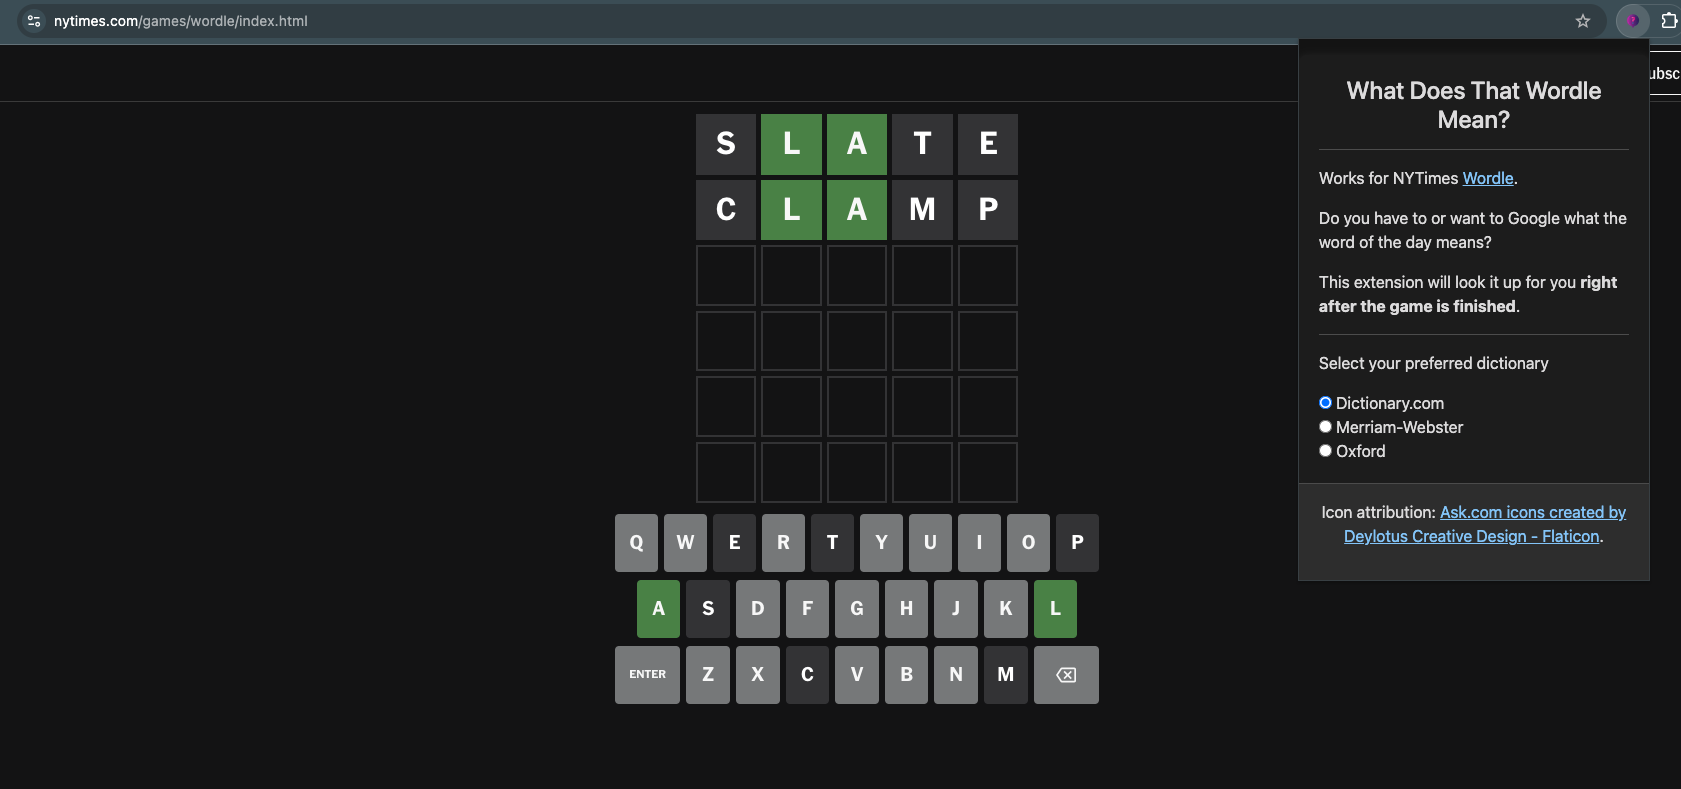
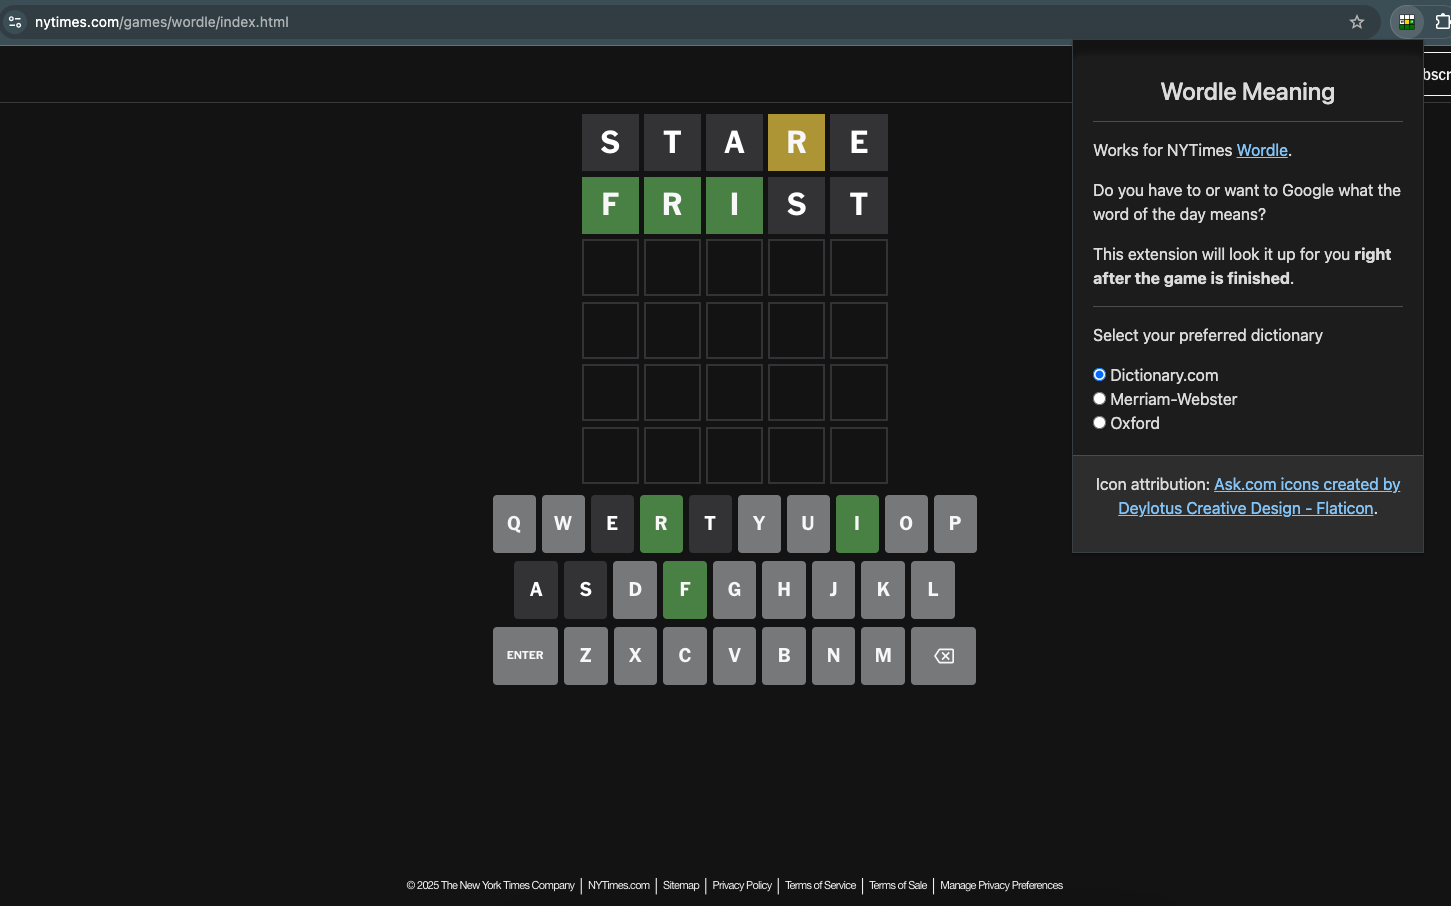
fix: not loading when failed game + user not logged (#5)

diff --git a/content.js b/content.js
@@ -1,4 +1,12 @@
-const CONFIG = { dictionaryUrl: "https://www.dictionary.com/browse/", };
+/**
+ * Configuration constants for the Wordle extension
+ */
+const CONFIG = {
+  dictionaryUrl: "https://www.dictionary.com/browse/",
+  wordLength: 5,
+  pollInterval: 1000,
+  dictionaryDelay: 1500,
+};
 
 const DICT = {
   dictionary: (word) => `https://www.dictionary.com/browse/${word}`,
@@ -23,90 +31,189 @@ const STATE = {
 const DONT_REVEAL = [
   "Not in word list",
   "Not enough letters",
-]
+];
 
-const dontCheck = [STATE.tbd, STATE.empty, STATE.present, STATE.absent];
+const invalidStates = [STATE.tbd, STATE.empty, STATE.present, STATE.absent];
 
 let attemptedWord = "";
+let pollIntervalId = null;
 
+/**
+ * Polls the Wordle game to detect when it's complete and extract the word
+ * Handles both win and loss scenarios
+ */
 function pollWordle() {
-  const currentWord = getCurrentResolvedWord();
-  if (currentWord?.length === 5) {
-    openDictionary(currentWord);
-    return;
-  }
-  const revealed = isRevealed();
-  if (revealed) {
-    openDictionary(revealed);
-    return;
-  }
+  try {
+    const currentWord = getCurrentResolvedWord();
+    if (currentWord?.length === CONFIG.wordLength) {
+      openDictionary(currentWord);
+      stopPolling();
+      return;
+    }
+    const revealed = isRevealed();
+    if (revealed) {
+      openDictionary(revealed);
+      stopPolling();
+      return;
+    }
 
-  if (isWordleComplete()) {
-    return;
+    if (isWordleComplete()) {
+      stopPolling();
+      return;
+    }
+  } catch (error) {
+    console.error('Error in pollWordle:', error);
+    stopPolling();
   }
-
-  requestAnimationFrame(pollWordle);
 }
 
+/**
+ * Starts polling the Wordle game for completion
+ * Clears any existing polling interval before starting
+ */
+function startPolling() {
+  if (pollIntervalId) {
+    clearInterval(pollIntervalId);
+  }
+  pollIntervalId = setInterval(pollWordle, CONFIG.pollInterval);
+}
+
+/**
+ * Stops the polling interval and cleans up resources
+ */
+function stopPolling() {
+  if (pollIntervalId) {
+    clearInterval(pollIntervalId);
+    pollIntervalId = null;
+  }
+}
+
+/**
+ * Extracts the current resolved word from the game tiles
+ * @returns {string} The resolved word if found, empty string otherwise
+ */
 function getCurrentResolvedWord() {
-  const letters = document.querySelectorAll(`*[class^="${DOM.resolvedClass}"]`);
-  if (!letters || letters.length === 0) return "";
+  try {
+    const letters = document.querySelectorAll(`*[class^="${DOM.resolvedClass}"]`);
+    if (!letters || letters.length === 0) return "";
 
-  let word = "";
-  for (let i = 0; i < letters.length; i++) {
-    const letterEl = letters[i];
-    const letterState = letters[i].getAttribute("data-state");
+    let word = "";
+    for (let i = 0; i < letters.length; i++) {
+      const letterEl = letters[i];
+      const letterState = letters[i].getAttribute("data-state");
 
-    // not correct clears the word 
-    if (dontCheck.includes(letterState)) {
-      word = "";
-      continue;
-    }
+      // not correct clears the word 
+      if (invalidStates.includes(letterState)) {
+        word = "";
+        continue;
+      }
 
-    word += letterEl.innerText;
-    // if 5 correct in a row, it is solved
-    if (word.length === 5) {
-      break;
+      const letterText = letterEl.innerText?.trim();
+      if (letterText) {
+        word += letterText;
+      }
+
+      // if correct word length achieved, break
+      if (word.length === CONFIG.wordLength) {
+        break;
+      }
+      // avoid counting letters from different rows
+      if ((i + 1) % CONFIG.wordLength === 0) {
+        word = "";
+      }
     }
-    // avoid counting 5 with different rows
-    if ((i + 1) % 5 === 0) {
-      word = "";
-    }
+    return word;
+  } catch (error) {
+    console.error('Error in getCurrentResolvedWord:', error);
+    return "";
   }
-  return word;
 }
 
+/**
+ * Checks if the word has been revealed in a toast notification
+ * @returns {string|boolean} The revealed word or false if not revealed
+ */
 function isRevealed() {
-  const revealedElements = document.querySelectorAll(`*[class^="${DOM.revealedClass}"]`);
-  if (revealedElements.length > 0) {
-    const revealed = revealedElements[0].innerText;
-    if (DONT_REVEAL.includes(revealed)) {
-      return false;
+  try {
+    const revealedElements = document.querySelectorAll(`*[class^="${DOM.revealedClass}"]`);
+    if (revealedElements.length > 0) {
+      const revealed = revealedElements[0].innerText?.trim();
+      if (!revealed || DONT_REVEAL.includes(revealed)) {
+        return false;
+      }
+      return revealed;
     }
-    return revealed;
+    return false;
+  } catch (error) {
+    console.error('Error in isRevealed:', error);
+    return false;
   }
-  return false;
 }
 
+/**
+ * Checks if the Wordle game is complete by looking for stats display
+ * @returns {boolean} True if game is complete, false otherwise
+ */
 function isWordleComplete() {
-  const completeElements = document.querySelectorAll(`*[class^="${DOM.statsClass}"]`);
-  return completeElements.length > 0;
+  try {
+    const completeElements = document.querySelectorAll(`*[class^="${DOM.statsClass}"]`);
+    return completeElements?.length;
+  } catch (error) {
+    console.error('Error in isWordleComplete:', error);
+    return false;
+  }
 }
 
+/**
+ * Opens a dictionary page for the given word in a new tab
+ * @param {string} word - The word to look up
+ */
 function openDictionary(word) {
-  setTimeout(async () => {
-    chrome.storage.sync.get('dictionary', (data) => {
-      console.log(JSON.stringify(data))
-      chrome.runtime.sendMessage(
-        {
-          url: DICT[data?.dictionary || 'dictionary']?.(word.toLowerCase()),
-          type: "open_url",
-        },
-        () => { }
-      );
-    });
-  }, 1500);
+  try {
+    if (!word || typeof word !== 'string') {
+      console.error('Invalid word provided to openDictionary:', word);
+      return;
+    }
+
+    setTimeout(() => {
+      chrome.storage.sync.get('dictionary', (data) => {
+        try {
+          const selectedDictionary = data?.dictionary || 'dictionary';
+          const dictionaryFunction = DICT[selectedDictionary];
+
+          if (!dictionaryFunction) {
+            console.error('Dictionary function not found for:', selectedDictionary);
+            return;
+          }
+
+          const url = dictionaryFunction(word.toLowerCase());
+
+          chrome.runtime.sendMessage(
+            {
+              url: url,
+              type: "open_url",
+            },
+            (_) => {
+              if (chrome.runtime.lastError) {
+                console.error('Error sending message:', chrome.runtime.lastError);
+              }
+            }
+          );
+        } catch (error) {
+          console.error('Error in storage callback:', error);
+        }
+      });
+    }, CONFIG.dictionaryDelay);
+  } catch (error) {
+    console.error('Error in openDictionary:', error);
+  }
 }
 
-pollWordle();
+// Start polling when content script loads
+startPolling();
+
+// Cleanup when page unloads
+window.addEventListener('beforeunload', () => {
+  stopPolling();
+});
 

diff --git a/settings.js b/settings.js
@@ -1,19 +1,62 @@
+/**
+ * Initialize settings when DOM is loaded
+ */
 document.addEventListener('DOMContentLoaded', () => {
   chrome.storage.sync.get('dictionary', (data) => {
-    if (data?.dictionary) {
-      document.querySelector(`#${data.dictionary}`).checked = true;
+    try {
+      if (data?.dictionary) {
+        const element = document.querySelector(`#${data.dictionary}`);
+        if (element) {
+          element.checked = true;
+        }
+      }
+    } catch (error) {
+      console.error('Error loading dictionary setting:', error);
     }
   });
 });
 
+/**
+ * Set up event listeners for dictionary selection
+ */
 const dictionaryRadios = document.querySelectorAll('input[name="dictionary"]');
 dictionaryRadios.forEach((radio) => {
   radio.addEventListener('click', () => {
-    const selectedDictionary = document.querySelector('input[name="dictionary"]:checked');
-    if (selectedDictionary) {
-      const dictionaryValue = selectedDictionary.value;
-      chrome.storage.sync.set({ dictionary: dictionaryValue }, () => { });
+    try {
+      const selectedDictionary = document.querySelector('input[name="dictionary"]:checked');
+      if (selectedDictionary) {
+        const dictionaryValue = selectedDictionary.value;
+        chrome.storage.sync.set({ dictionary: dictionaryValue }, () => {
+          if (chrome.runtime.lastError) {
+            console.error('Error saving dictionary setting:', chrome.runtime.lastError);
+            showStatusMessage('Error saving setting', 'error');
+          } else {
+            showStatusMessage('Saved', 'success');
+          }
+        });
+      }
+    } catch (error) {
+      console.error('Error handling dictionary selection:', error);
     }
   });
 });
+
+/**
+ * Shows a status message to the user
+ * @param {string} message - The message to display
+ * @param {string} type - The type of message ('success' or 'error')
+ */
+function showStatusMessage(message, type) {
+  const statusElement = document.getElementById('status-message');
+  if (statusElement) {
+    statusElement.textContent = message;
+    statusElement.style.color = type === 'success' ? '#02f002' : '#dc3545';
+    statusElement.style.display = 'block';
+
+    // Hide message after 3 seconds
+    setTimeout(() => {
+      statusElement.style.display = 'none';
+    }, 3000);
+  }
+}
 

diff --git a/background.js b/background.js
@@ -1,11 +1,30 @@
+/**
+ * Listens for messages from content scripts to open dictionary URLs
+ */
 chrome.runtime.onMessage.addListener(function (request, _, sendResponse) {
-  if (request?.type === "open_url") {
-    openTab(request.url);
-    sendResponse({ message: `tab created: ${request.url}` });
+  let message = {};
+  try {
+    if (request?.type === "open_url") {
+      openTab(request.url);
+      message = { message: `tab created: ${request.url}` }
+    }
+  } catch (error) {
+    console.error('Error handling message:', error);
+    message = { error: error.message }
   }
+  sendResponse(message);
 });
 
+/**
+ * Opens a new tab with the specified URL
+ * @param {string} url - The URL to open
+ */
 function openTab(url) {
+  if (!url || typeof url !== 'string') {
+    console.error('Invalid URL provided to openTab:', url);
+    return;
+  }
+
   chrome.tabs.create({
     url: url,
   });

diff --git a/index.html b/index.html
@@ -83,7 +83,7 @@
   </head>
   <body>
     <div class="container mt-3">
-      <h2 class="text-center">What Does That Wordle Mean?</h2>
+      <h2 class="text-center">Wordle Meaning</h2>
       <hr>
       <p>
         Works for NYTimes
@@ -110,6 +110,7 @@
           <input type="radio" name="dictionary" value="oxford" id="oxford"> Oxford
         </label>
       </div>
+      <div id="status-message" style="margin-top: 10px; font-size: 0.9em; color: #666; display: none;"></div>
     </div>
     <div class="footer">
       <p>
